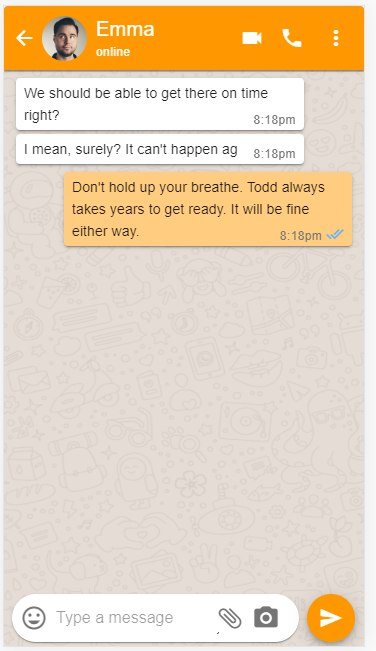
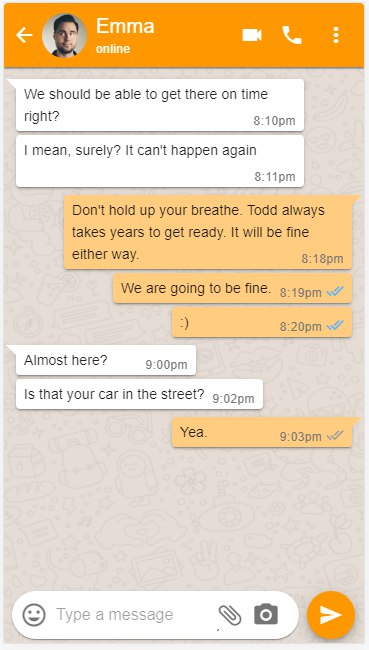
Add chat bubble corner, loading messages dynamically.

diff --git a/src/components/Chat.vue b/src/components/Chat.vue
@@ -3,26 +3,42 @@
 		<ChatTopBar></ChatTopBar>
 		<v-sheet id="" class="overflow-y-auto" max-height="600">
 			<v-container class="pa-0 pt-2 grey lighten-2 back subtitle-2" style="height: 90vh;">
-				<v-card class="mx-3 mb-1 px-2 py-1" width="80%">
-					We should be able to get there on time right?
-					<span class="float-right mt-1">
-						<span class="caption grey--text text--darken-1"> {{ messages[0].time }} </span>
-					</span>
-				</v-card>
-				<v-card class="mx-3 mb-2 px-2 py-1" width="80%">
-					I mean, surely? It can't happen ag
-					<span class="float-right mt-1">
-						<span class="caption grey--text text--darken-1"> {{ messages[0].time }} </span>
-					</span>
-				</v-card>
-				<v-card class="mx-3 mb-1 px-2 py-1 float-right orange lighten-3 " width="80%">
-					Don't hold up your breathe. Todd always takes years to get ready. It will be fine either way.
-					<span class="float-right mt-1" style="height:18px;">
-						<span class="caption grey--text text--darken-1"> {{ messages[0].time }} </span>
-						<!-- <v-icon size="18" class="mt-n1" color="grey lighten-0">mdi-check-all</v-icon> -->
-						<v-icon size="18" class="mt-n1" color="blue lighten-2">mdi-check-all</v-icon>
-					</span>
-				</v-card>
+				<template v-for="(message, index) in messages">
+					<v-card
+						v-if="message.direction == 'incoming'"
+						:key="index"
+						:class="{ 'chat-bubble mt-1': firstDirection(message, index) }"
+						class="left mx-3 mb-1 px-2 py-1 float-left"
+						min-width="50%"
+						max-width="80%"
+					>
+						<div class="hide-overflow">
+							{{ message.text }}
+						</div>
+						<span class="float-right mt-1 pl-2" style="height:18px;">
+							<span class="caption grey--text text--darken-1"> {{ message.time }} </span>
+						</span>
+					</v-card>
+
+					<v-card
+						v-else-if="message.direction == 'outgoing'"
+						:key="index"
+						:class="{ 'chat-bubble mt-1': firstDirection(message, index) }"
+						class="right mx-3 mb-1 px-2 py-1 float-right orange lighten-3"
+						min-width="50%"
+						max-width="80%"
+					>
+						<div class="hide-overflow">
+							{{ message.text }}
+						</div>
+						<span class="float-right mt-1 pl-2" style="height:18px;">
+							<span class="caption grey--text text--darken-1"> {{ message.time }} </span>
+							<v-icon v-if="message.status == 'received'" size="18" class="mt-n1" color="grey lighten-0">mdi-check-all</v-icon>
+							<v-icon v-else-if="message.status == 'read'" size="18" class="mt-n1" color="blue lighten-2">mdi-check-all</v-icon>
+						</span>
+					</v-card>
+				</template>
+
 				<ChatBox></ChatBox>
 			</v-container>
 		</v-sheet>
@@ -40,12 +56,62 @@ export default Vue.extend({
 		return {
 			messages: [
 				{
+					direction: 'incoming',
+					text: `We should be able to get there on time right?`,
+					time: '8:10pm'
+				},
+				{
+					direction: 'incoming',
+					text: `I mean, surely? It can't happen again`,
+					time: '8:11pm'
+				},
+				{
 					direction: 'outgoing',
-					text: 'I am on the internet.',
+					text: `Don't hold up your breathe. Todd always takes years to get ready. It will be fine either way.`,
+					status: 'received/read',
 					time: '8:18pm'
+				},
+				{
+					direction: 'outgoing',
+					text: `We are going to be fine.`,
+					status: 'read',
+					time: '8:19pm'
+				},
+				{
+					direction: 'outgoing',
+					text: `:)`,
+					status: 'read',
+					time: '8:20pm'
+				},
+				{
+					direction: 'incoming',
+					text: 'Almost here?',
+					time: '9:00pm'
+				},
+				{
+					direction: 'incoming',
+					text: 'Is that your car in the street?',
+					time: '9:02pm'
+				},
+				{
+					direction: 'outgoing',
+					text: 'Yea.',
+					status: 'received',
+					time: '9:03pm'
 				}
-			]
+			],
+			lastMessage: {}
 		};
+	},
+	methods: {
+		firstDirection(message: any, index: number): boolean {
+			if (index == 0) {
+				return true;
+			}
+			const check: boolean = message.direction != this.messages[index - 1].direction;
+
+			return check;
+		}
 	}
 });
 </script>
@@ -54,5 +120,43 @@ export default Vue.extend({
 .back {
 	background-image: url('../assets/background.png');
 	background-size: 140% 140%;
+}
+
+.hide-overflow {
+	display: inline;
+	overflow: hidden;
+}
+
+.chat-bubble::after {
+	content: '';
+	position: absolute;
+	top: 10px;
+	width: 0;
+	height: 0;
+	border: 10px solid transparent;
+	border-top: 0;
+	margin-top: -10px;
+}
+
+.chat-bubble.left::after {
+	left: 0;
+	border-right-color: inherit;
+	border-left: 0;
+	margin-left: -10px;
+}
+
+.chat-bubble.right::after {
+	right: 0;
+	border-left-color: inherit;
+	border-right: 0;
+	margin-right: -10px;
+}
+
+.chat-bubble.left {
+	border-top-left-radius: 0px;
+}
+
+.chat-bubble.right {
+	border-top-right-radius: 0px;
 }
 </style>
